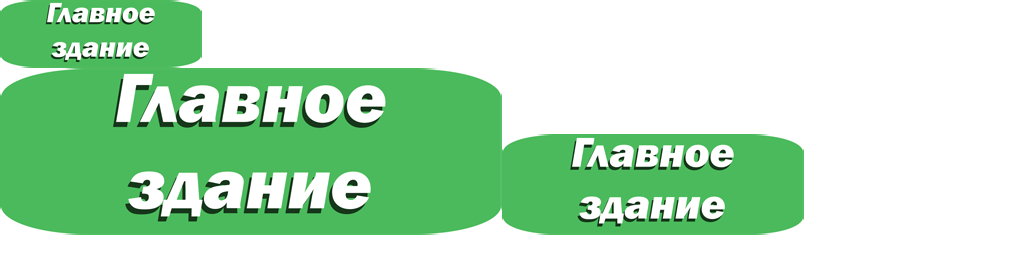
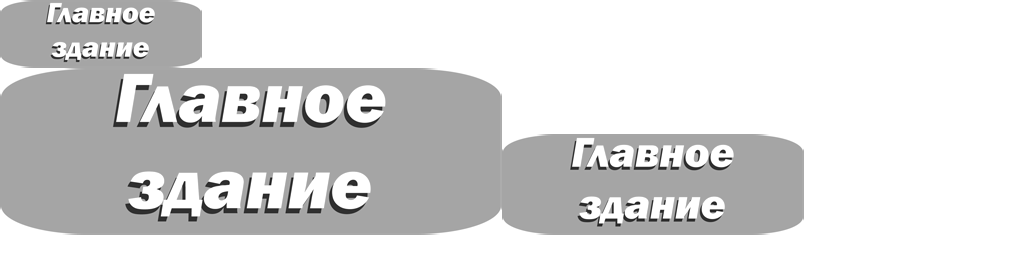
Main menu buttons update
-Some of the main menu buttons are not accessible

#PM-78 state done

diff --git a/core/src/com/app/MainScreen.java b/core/src/com/app/MainScreen.java
@@ -51,6 +51,57 @@ public class MainScreen extends Stage implements Screen {
         return new SpriteDrawable(sprite);
     }
 
+    private Button createUselessButton(String textureNameUp,
+                                              String textureNameDown,
+                                              float width, float height,
+                                              float x, float y) {
+        Texture tDown = new Texture(textureNameDown);
+        Texture tUp = new Texture(textureNameUp);
+
+        Drawable drawableUp = new TextureRegionDrawable(new TextureRegion(tUp));
+        Drawable drawableDown = new TextureRegionDrawable(new TextureRegion(tDown));
+
+        ImageButton button = new ImageButton(drawableUp, drawableDown);
+        button.setSize(width, height);
+        button.setPosition(x, y);
+        button.addListener(new InputListener() {
+            @Override
+            public void touchUp(InputEvent event, float x, float y, int pointer, int button) {
+                if (isPressed) {
+                    dispose();
+                    game.existError = false;
+                    //isPressed = false;
+                    //game.setScreen(screen);
+                    isPressed = false;
+                }
+            }
+
+            @Override
+            public boolean touchDown(InputEvent event, float x, float y, int pointer, int button) {
+                isPressed = true;
+                //Change colour for waiter
+                Skin skin = new Skin(Gdx.files.internal("skin/glassy-ui.json"));
+
+                Pixmap pixmap = new Pixmap(1, 1, Pixmap.Format.RGBA8888);
+                pixmap.setColor(Color.GREEN);
+                pixmap.fill();
+                BitmapFont myFont = new BitmapFont();
+                myFont.getRegion().getTexture().setFilter(Texture.TextureFilter.Linear, Texture.TextureFilter.Linear);
+                myFont.getData().setScale(2, 2);
+                skin.add("green", new Texture(pixmap));
+                skin.add("default", myFont);//new BitmapFont());
+
+                TextButton.TextButtonStyle textButtonStyle = new TextButton.TextButtonStyle();
+                textButtonStyle.up = skin.newDrawable("black", new Color((float) 0, (float) 0, (float) 0, 0.5f));
+                textButtonStyle.font = skin.getFont("default");
+                skin.add("default", textButtonStyle);
+
+                return true;
+            }
+        });
+        return button;
+    }
+
     private Button createScreenChangingButton(String textureNameUp,
                                               String textureNameDown,
                                               float width, float height,
@@ -135,27 +186,29 @@ public class MainScreen extends Stage implements Screen {
                 "search_on_map\\down\\Search_Map_200.png",
                 col_width, row_height,
                 2 * col_width, this.game.getHeightScreen() - row_height - toolBar_height, this.game.inputABScreen));
+
         //Gallery button
-        stage.addActor(createScreenChangingButton("gallery\\up\\Gallery_200.png",
-                "gallery\\down\\Gallery_200.png",
+        stage.addActor(createUselessButton("gallery\\Gallery_200.png",
+                "gallery\\Gallery_200.png",
                 col_width, row_height,
-                0, this.game.getHeightScreen() - 2 * row_height - toolBar_height, this.game.secondScreen));
+                0, this.game.getHeightScreen() - 2 * row_height - toolBar_height/*, this.game.mainScreen)*/));
+
         //List of departments button
-        stage.addActor(createScreenChangingButton(
-                "department_list\\up\\ListOfDepartments_200.png",
-                "department_list\\down\\ListOfDepartments_200.png",
+        stage.addActor(createUselessButton(
+                "department_list\\ListOfDepartments_200.png",
+                "department_list\\ListOfDepartments_200.png",
                 col_width, row_height,
-                2 * col_width, this.game.getHeightScreen() - 2 * row_height - toolBar_height, this.game.secondScreen));
+                2 * col_width, this.game.getHeightScreen() - 2 * row_height - toolBar_height/*, this.game.mainScreen)*/));
         //Favorites button
-        stage.addActor(createScreenChangingButton("favorites\\up\\Fav_200.png",
-                "favorites\\down\\Fav_200.png",
+        stage.addActor(createUselessButton("favorites\\Fav_200.png",
+                "favorites\\Fav_200.png",
                 col_width, row_height,
-                0, this.game.getHeightScreen() - 3 * row_height - toolBar_height, this.game.secondScreen));
+                0, this.game.getHeightScreen() - 3 * row_height - toolBar_height/*, this.game.mainScreen)*/));
         //Settings button
-        stage.addActor(createScreenChangingButton("settings\\up\\Settings_200.png",
-                "settings\\down\\Settings_200.png",
+        stage.addActor(createUselessButton("settings\\Settings_200.png",
+                "settings\\Settings_200.png",
                 col_width, row_height,
-                2 * col_width, this.game.getHeightScreen() - 3 * row_height - toolBar_height, this.game.secondScreen));
+                2 * col_width, this.game.getHeightScreen() - 3 * row_height - toolBar_height/*, this.game.mainScreen)*/));
         //Toolbar up ans down
         //Change colour
         Skin skin = new Skin(Gdx.files.internal("skin/glassy-ui.json"));
@@ -270,8 +323,8 @@ public class MainScreen extends Stage implements Screen {
 
     @Override
     public void resize(int width, int height) {
-    }
 
+    }
     @Override
     public void pause() {
     }
